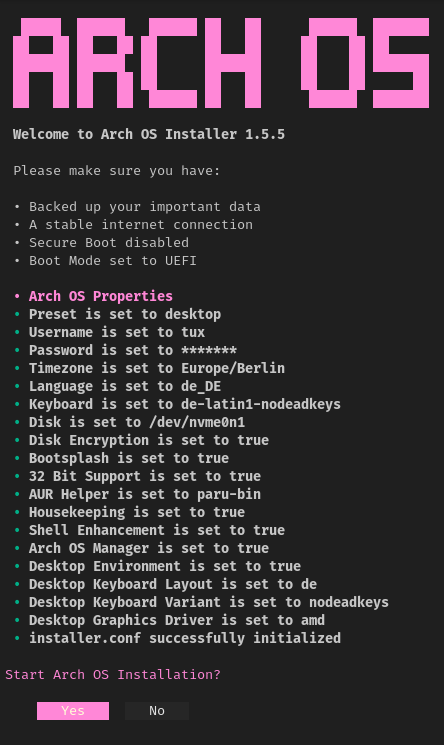
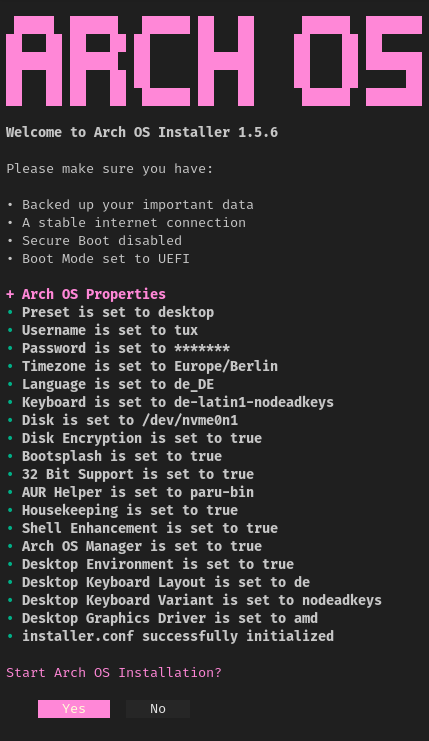
1.5.6
* refactor margins and spaces
* add smartmontools
* changed hooks order
* fix aur helper selection

diff --git a/docs/DOCS.md b/docs/DOCS.md
@@ -181,6 +181,8 @@ This feature will install:
   - _Missing command suggestion and daily database update_
 - `reflector` and start `reflector.service` service (every boot)
   - _Rank & update the mirrorlist on every boot_
+- `smartmontools` and start `smartd` service
+  - _Monitor storage devices_
 
 The reflector service configuration is located here: `/etc/xdg/reflector/reflector.conf`
 
